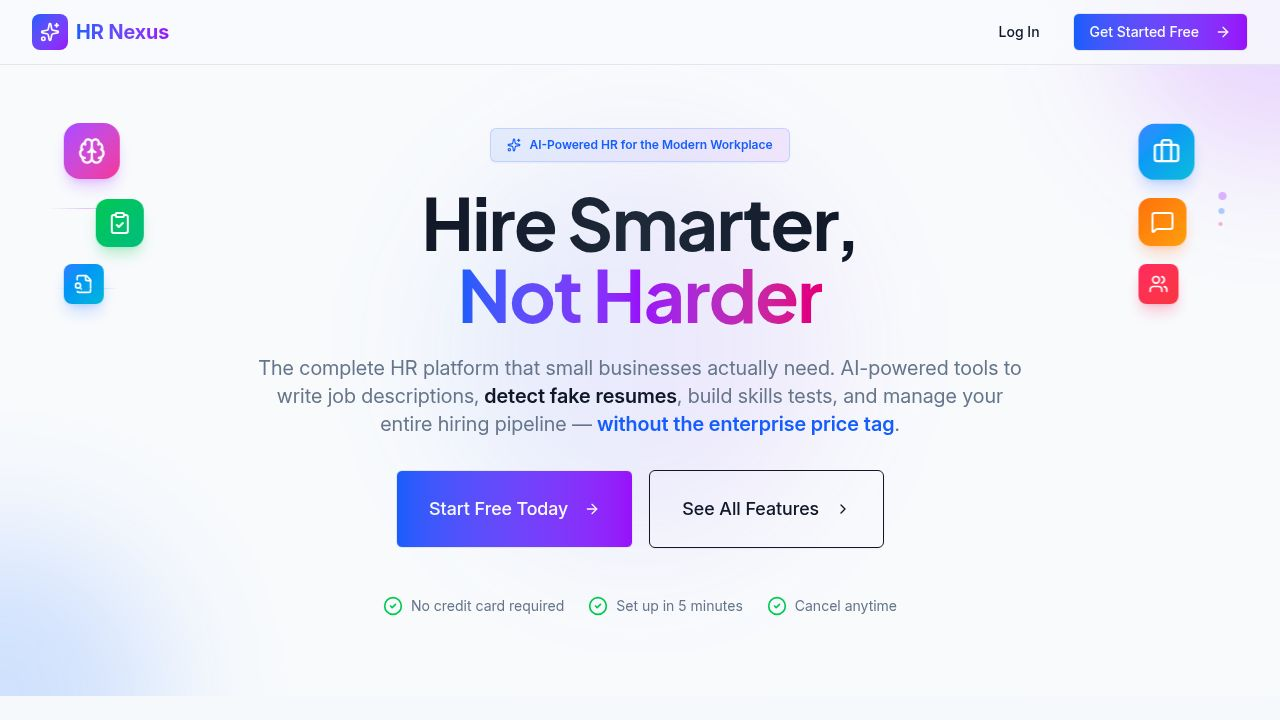
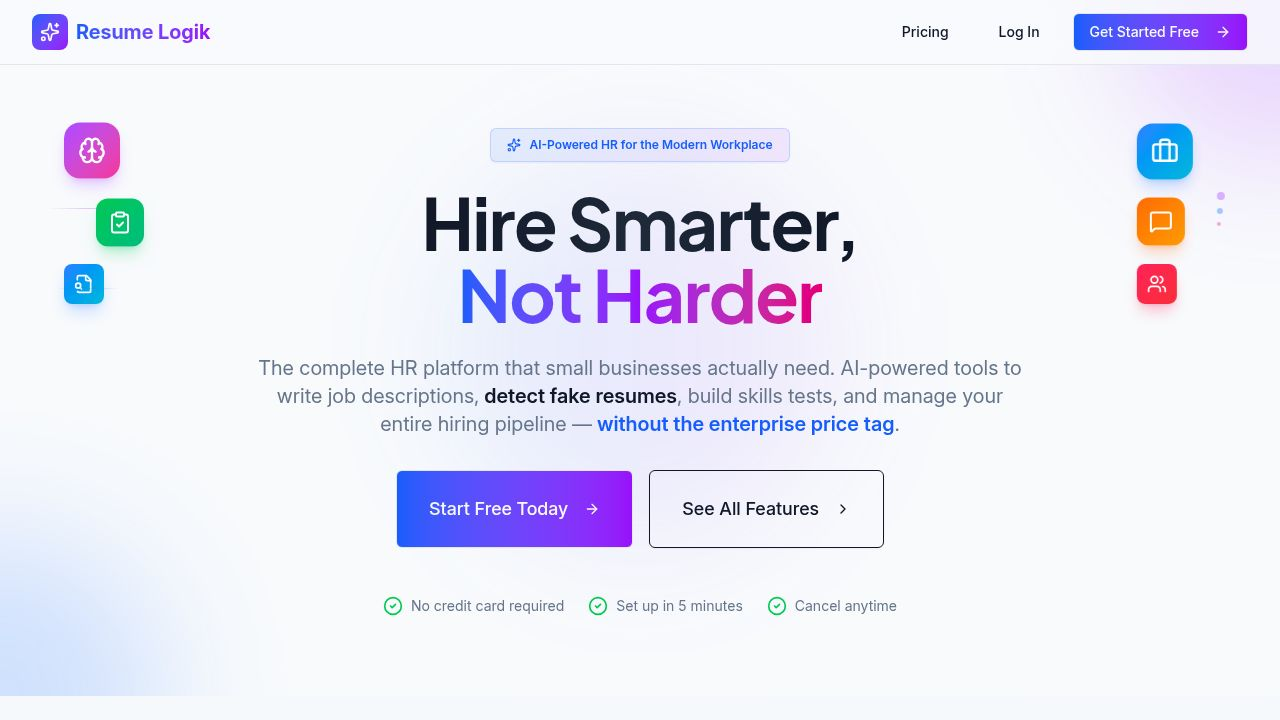
Add pricing page and navigation link to landing page
Adds a new route for the pricing page and a link to it in the landing page navigation.

Replit-Commit-Author: Agent
Replit-Commit-Session-Id: 73a69d75-26c9-4f71-815f-16f437272334
Replit-Commit-Checkpoint-Type: intermediate_checkpoint
Replit-Commit-Event-Id: 60ca9720-1181-444e-8189-47f44cd299ef
Replit-Commit-Screenshot-Url: https://storage.googleapis.com/screenshot-production-us-central1/fb338ca3-e241-4e6a-a402-bf5ed56abd9b/73a69d75-26c9-4f71-815f-16f437272334/Ei3cSBc
Replit-Helium-Checkpoint-Created: true

diff --git a/client/src/App.tsx b/client/src/App.tsx
@@ -7,6 +7,7 @@ import NotFound from "@/pages/not-found";
 import AuthPage from "@/pages/auth-page";
 import Dashboard from "@/pages/home-page";
 import LandingPage from "@/pages/landing-page";
+import PricingPage from "@/pages/pricing-page";
 import { Layout } from "@/components/layout/Layout";
 import JobDescriptionModule from "@/pages/modules/job-description";
 import ResumeAnalyzerModule from "@/pages/modules/resume-analyzer";
@@ -25,6 +26,7 @@ function Router() {
   return (
     <Switch>
       <Route path="/" component={LandingPage} />
+      <Route path="/pricing" component={PricingPage} />
       <Route path="/auth" component={AuthPage} />
       <Route path="/test/:token" component={SkillsTestPublic} />
       

diff --git a/client/src/pages/landing-page.tsx b/client/src/pages/landing-page.tsx
@@ -173,6 +173,9 @@ export default function LandingPage() {
               </span>
             </div>
             <div className="flex items-center gap-4">
+              <Button variant="ghost" asChild data-testid="link-pricing">
+                <a href="/pricing">Pricing</a>
+              </Button>
               <Button variant="ghost" asChild data-testid="link-login">
                 <a href="/api/login">Log In</a>
               </Button>
